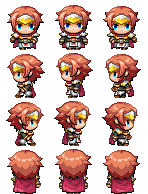
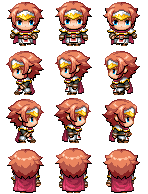
added joe and fixed warrior sprite

diff --git a/src/scenes/playerHouse.js b/src/scenes/playerHouse.js
@@ -5,6 +5,7 @@ import mage from "../assets/characters/Mage.png"
 import warrior from "../assets/characters/Warrior.png"
 import floor from "../assets/backgrounds/RoomFloor.png"
 import floorPlatform from "../assets/backgrounds/RoomPlatform.png"
+import KingJoe from "../assets/characters/KingJoe.png"
 
 
 var player;
@@ -21,6 +22,7 @@ class House extends Phaser.Scene {
         this.load.image('floor',floor);
         this.load.image('floorPlatform',floorPlatform);
         this.load.spritesheet('mage', mage, {frameWidth: 48, frameHeight: 48});
+        this.load.spritesheet('KingJoe', KingJoe, {frameWidth: 48, frameHeight: 48});
     }
     create () {
         platforms = this.physics.add.staticGroup();
@@ -34,6 +36,8 @@ class House extends Phaser.Scene {
         layer.add(this.make.image({x:400, y:400, key:'housebg'},false));
 
         // layer.add(this.add.text(25, 50, 'Player House', { fontFamily: 'Press Start 2P', fontSize: 300, color: 'goldenrod' }))
+
+        this.add.sprite(600,300,'KingJoe').setScale(2);
 
         player = this.physics.add.sprite(350, 100, 'mage').setScale(2);
         player.setBounce(0.2);
